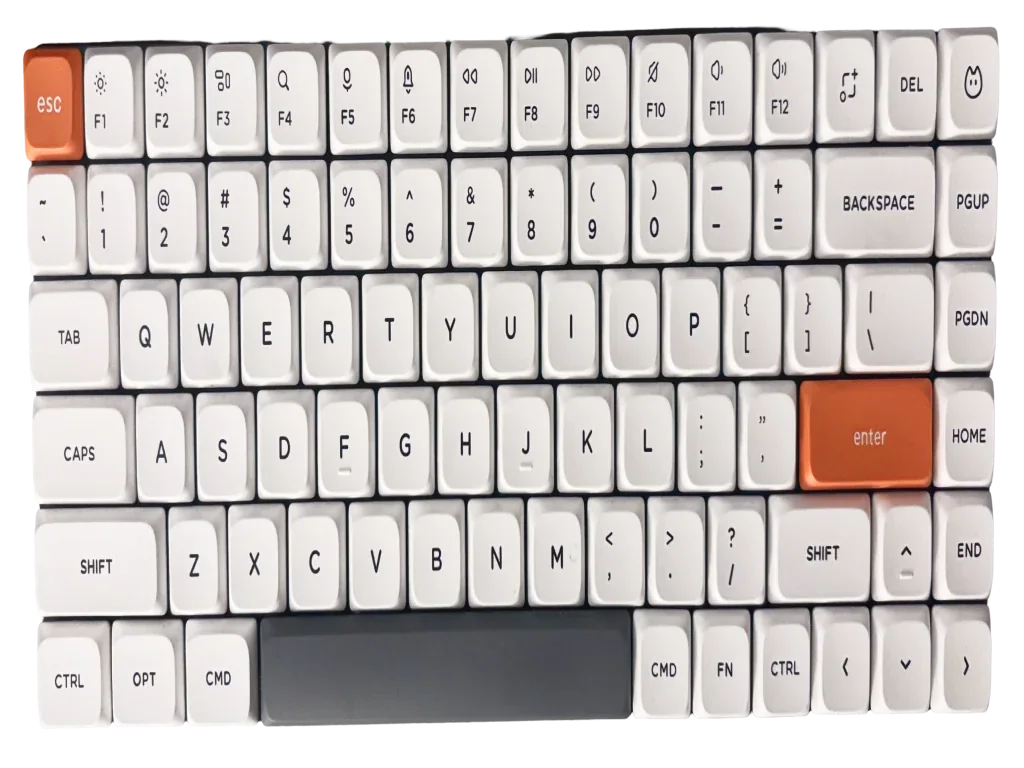
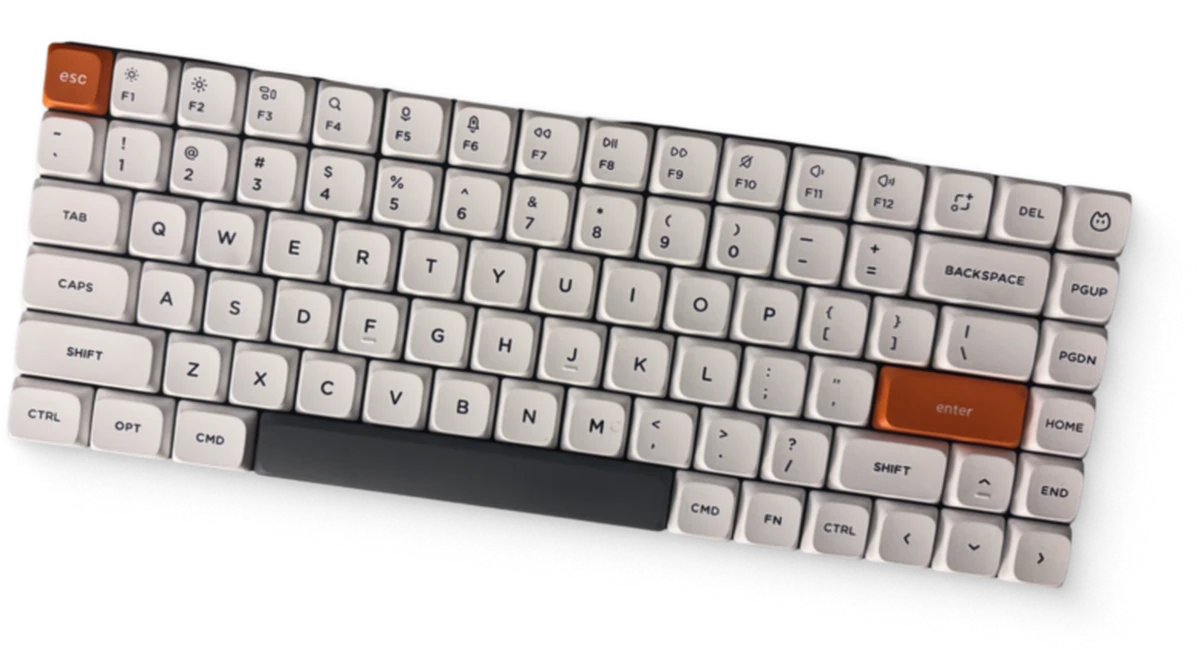
Keyboard on the top-right corner, square to the desk
Barely truncating it — two rows of keys and the edge of the board, the
rest cropped by the window.

Left unrotated on purpose. The laptop is chamfering its corner at 42
degrees; matching that here would read as a pattern rather than as two
objects that happen to be where someone left them. The photograph carries
a slight tilt of its own, which is enough.

Both corner objects now share one model: a corner to hang off, offsets as
fractions of their own size, a rotation, and a width written as a CSS
expression so it obeys the same constraint the stage does. The top-right
one throws its shadow the other way, since the light in the scene comes
from the top left.

A clean cutout again — proper alpha, trimmed from 874x478 to its 777x425
of content before scaling.

diff --git a/src/content/desk.ts b/src/content/desk.ts
@@ -37,37 +37,63 @@ const clip = (k: keyof typeof CLIPS) => CLIPS[k];
    are still in public/desk if they come back. */
 export const FURNITURE = [] as const;
 
-/* ── The laptop ────────────────────────────────────────────────────────────
-   Anchored to the top-left corner of the window rather than to the stage, so
-   it stays "just on screen" at any width — in stage space it would drift
-   inward and leave a band of wood between it and the edge on a wide monitor.
+/* ── Things the window crops ───────────────────────────────────────────────
+   Anchored to the corners of the window rather than to the stage, so each
+   stays "just on screen" at any width — in stage space they drift inward and
+   leave a band of wood between them and the edge on a wide monitor.
 
-   Sized against viewport height so it keeps its scale relative to the mat, and
-   offset far enough that only the lower-right of the base is in frame. The
-   whole machine is there; the window is simply cropping it. */
-export const LAPTOP = {
-  src: "/desk/laptop.webp",
-  /* Fractions of the element's own width/height, applied as a translate. */
-  offsetX: -0.50,
-  offsetY: -0.66,
-  /*
-   * Well past the angle the photograph was shot at. At this rotation the
-   * laptop's near edge runs as a diagonal from the top of the frame down to
-   * the left of it, so it truncates the corner rather than poking into it —
-   * a chamfer, not an object sitting near a corner. Clockwise, which turns the
-   * base toward the mat.
-   */
-  rotate: 42,
-  /*
-   * Width as a CSS expression rather than a number, because it has to obey the
-   * same constraint the stage does. Sized off svh alone it kept growing on a
-   * narrow window while the mat was held back by the width cap, and the laptop
-   * ended up out of scale with the desk it sits on. 1.48 x the stage height,
-   * which is big enough that the corner in frame reads as a MacBook rather
-   * than as a grey shape.
-   */
-  width: "min(130svh, 98.5vw)",
-} as const;
+   Each width is a CSS expression, not a number, because it has to obey the
+   same constraint the stage does. Sized off svh alone they keep growing on a
+   narrow window while the mat is held back by the width cap, and they end up
+   out of scale with the desk they sit on.
+
+   The rotations are well past the angles the photographs were shot at. At
+   these angles each object's near edge runs as a diagonal across its corner,
+   so it truncates the corner rather than poking into it — a chamfer, not an
+   object sitting near a corner. */
+export type CornerProp = {
+  id: string;
+  src: string;
+  /** Which corner it hangs off. */
+  corner: "tl" | "tr";
+  offsetX: number;
+  offsetY: number;
+  rotate: number;
+  width: string;
+};
+
+export const CORNER_PROPS: CornerProp[] = [
+  {
+    id: "laptop",
+    src: "/desk/laptop.webp",
+    corner: "tl",
+    /* Fractions of the element's own width and height, as a translate. */
+    offsetX: -0.5,
+    offsetY: -0.66,
+    /* Clockwise, which turns the base toward the mat. */
+    rotate: 42,
+    /* 1.48x the stage height — big enough that the corner in frame reads as a
+       MacBook rather than as a grey shape. */
+    width: "min(130svh, 98.5vw)",
+  },
+  {
+    id: "keyboard",
+    src: "/desk/keyboard.webp",
+    corner: "tr",
+    /* Positive X pushes it off the right edge; the laptop's negative X pushes
+       it off the left. */
+    offsetX: 0.46,
+    offsetY: -0.56,
+    /* Square to the desk, deliberately. The laptop is chamfering its corner at
+       42 degrees; matching that here would read as a pattern rather than as
+       two objects that happen to be where someone left them. The photograph
+       already carries a slight tilt of its own, which is enough. */
+    rotate: 0,
+    /* About 0.62 of the mat's width, which is roughly a 75% board against a
+       cutting mat in real life. */
+    width: "min(70svh, 53vw)",
+  },
+];
 
 /* ── The board ─────────────────────────────────────────────────────────────
    The mat, its printing and the pile are one thing and have to move as one,

diff --git a/src/app/lab/desk.css b/src/app/lab/desk.css
@@ -40,21 +40,31 @@ html.desk-locked body {
   background: #2b1d12 url("/desk/desk.webp") center / cover no-repeat;
 }
 
-/* ── The laptop ─────────────────────────────────────────────────────────────
-   Hangs off the window's top-left corner. Not part of the stage: anchored
-   there it would drift inward on a wide monitor and leave a band of wood
-   between it and the screen edge, which reads as a laptop placed near the
-   corner rather than one the window is cropping. */
-.desk__laptop {
+/* ── Things the window crops ────────────────────────────────────────────────
+   Hung off the window's own corners, not the stage's. Anchored to the stage
+   they drift inward on a wide monitor and leave a band of wood between them
+   and the screen edge, which reads as an object placed near a corner rather
+   than one the window is cropping. */
+.desk__corner {
   position: absolute;
-  left: 0;
   top: 0;
   height: auto;
   max-width: none;
   pointer-events: none;
   user-select: none;
-  filter: drop-shadow(18px 22px 26px rgba(0, 0, 0, 0.28));
   z-index: 1;
+}
+
+.desk__corner--tl {
+  left: 0;
+  filter: drop-shadow(18px 22px 26px rgba(0, 0, 0, 0.28));
+}
+
+/* Shadow thrown the other way, since the light in the scene comes from the
+   top left and this object is on the opposite side of it. */
+.desk__corner--tr {
+  right: 0;
+  filter: drop-shadow(-14px 20px 24px rgba(0, 0, 0, 0.26));
 }
 
 /*

diff --git a/src/components/desk/desk-scene.tsx b/src/components/desk/desk-scene.tsx
@@ -4,7 +4,7 @@ import { useCallback, useEffect, useRef, useState } from "react";
 
 import {
   BOARD,
-  LAPTOP,
+  CORNER_PROPS,
   LOGOS,
   MAT,
   PIECES,
@@ -100,20 +100,23 @@ export function DeskScene() {
 
   return (
     <div className="desk">
-      {/* Off the stage on purpose: it hangs off the window's own corner, not
-          the composition's. */}
-      {/* eslint-disable-next-line @next/next/no-img-element */}
-      <img
-        alt=""
-        aria-hidden
-        className="desk__laptop"
-        src={asset(LAPTOP.src)}
-        style={{
-          width: LAPTOP.width,
-          translate: `${LAPTOP.offsetX * 100}% ${LAPTOP.offsetY * 100}%`,
-          rotate: `${LAPTOP.rotate}deg`,
-        }}
-      />
+      {/* Off the stage on purpose: these hang off the window's own corners,
+          not the composition's. */}
+      {CORNER_PROPS.map((c) => (
+        /* eslint-disable-next-line @next/next/no-img-element */
+        <img
+          key={c.id}
+          alt=""
+          aria-hidden
+          className={`desk__corner desk__corner--${c.corner}`}
+          src={asset(c.src)}
+          style={{
+            width: c.width,
+            translate: `${c.offsetX * 100}% ${c.offsetY * 100}%`,
+            rotate: `${c.rotate}deg`,
+          }}
+        />
+      ))}
 
       <div className="desk__stage">
         {/* ── The board: mat, printing and pile, moving as one ────────── */}
